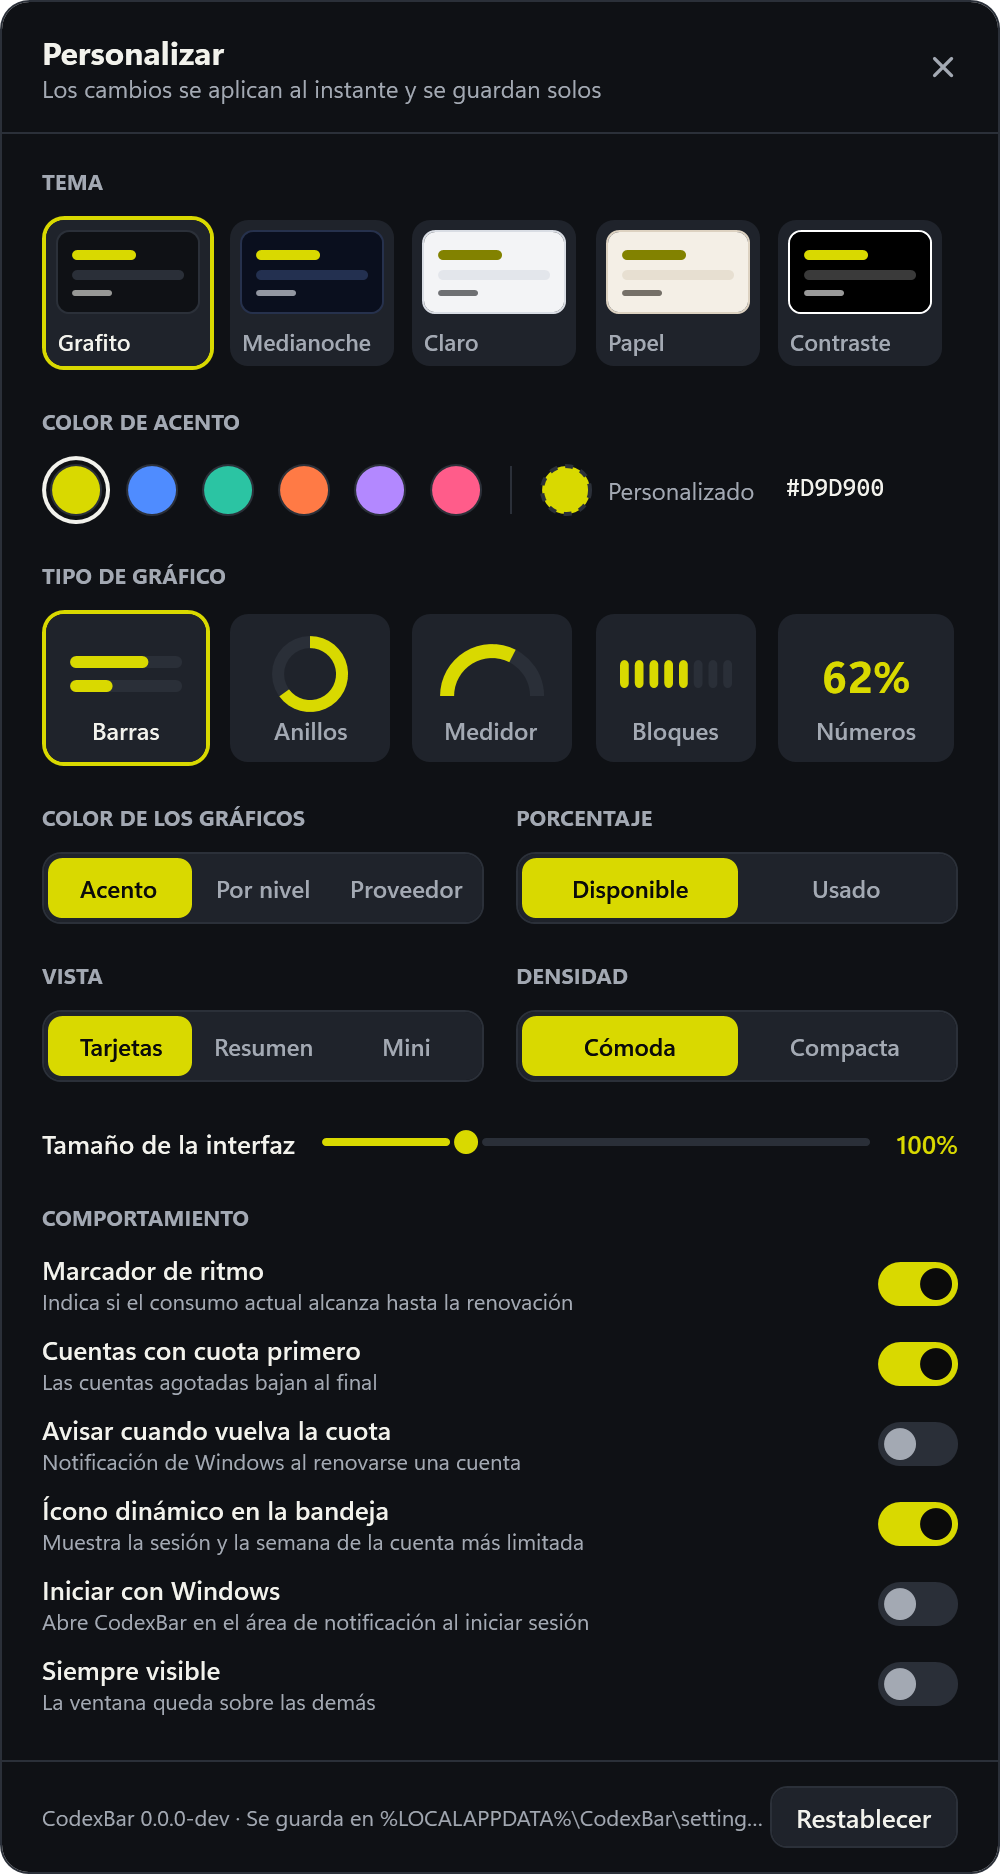
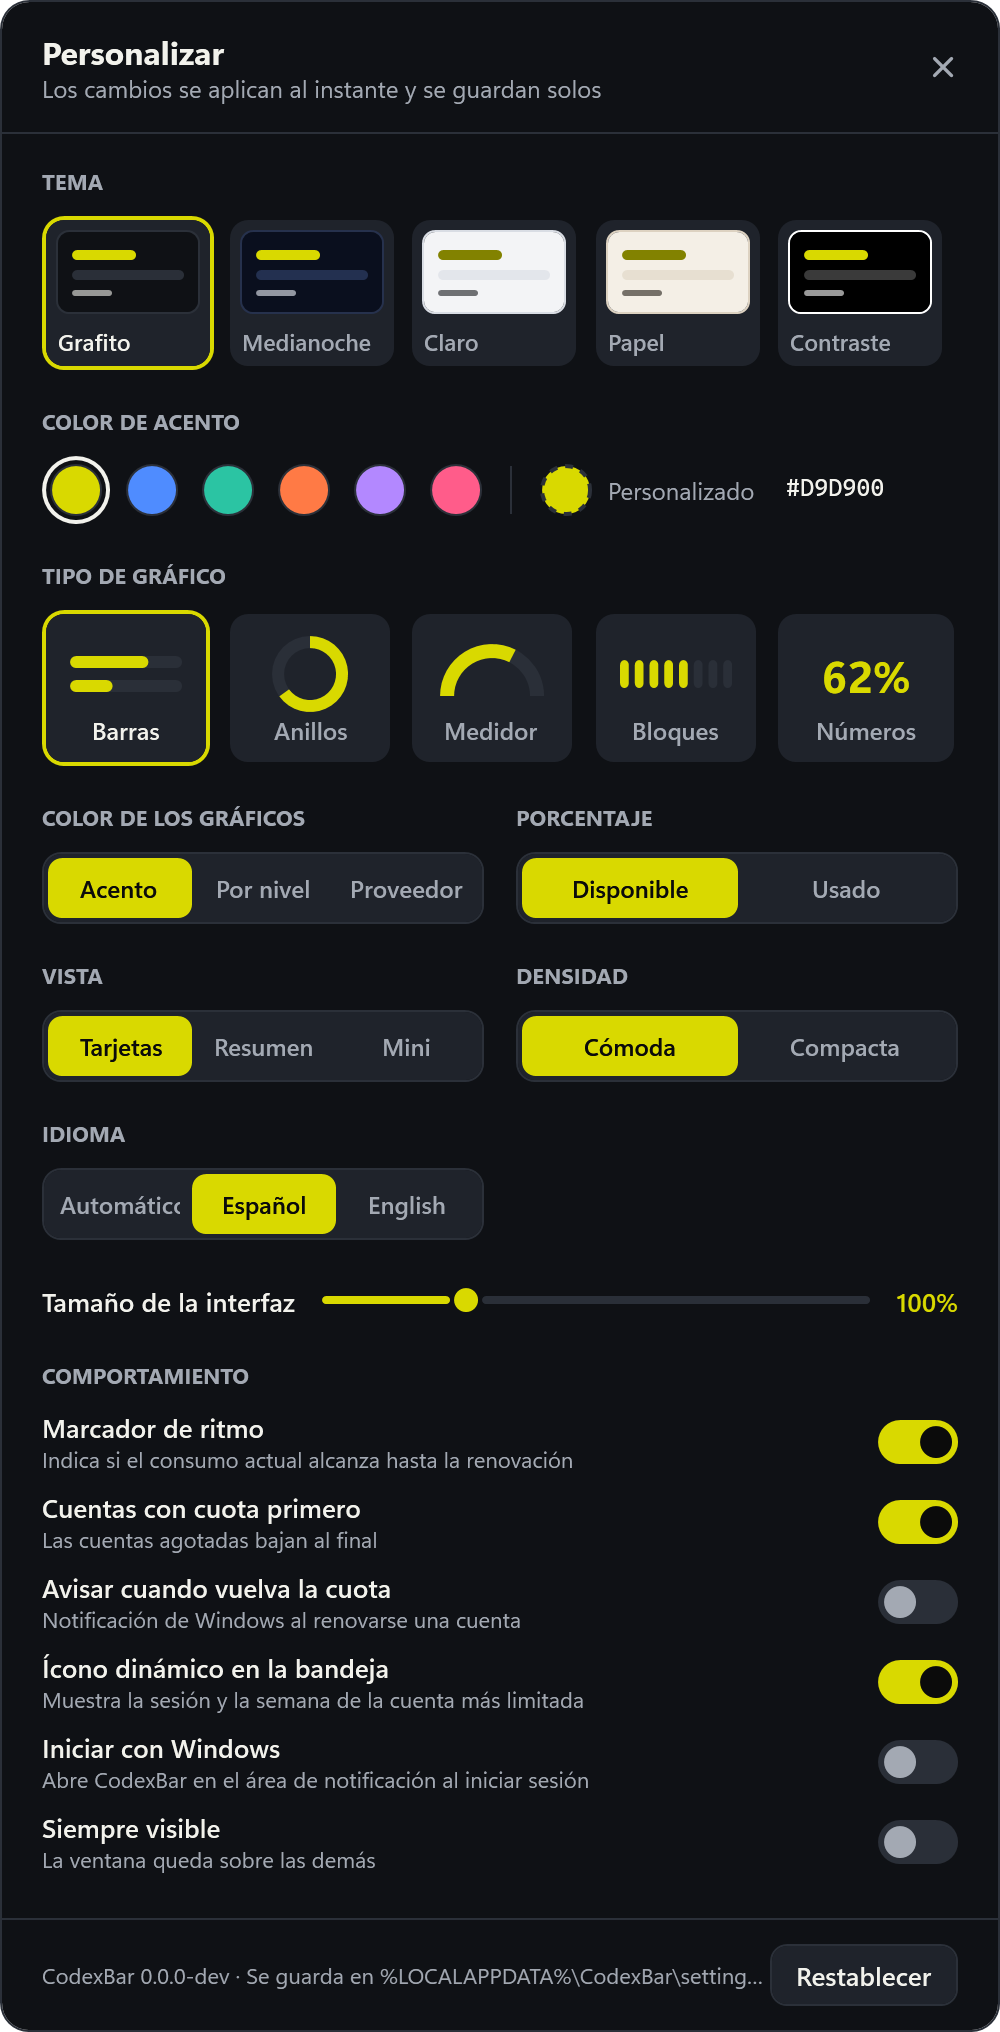
Document the English UI and use English screenshots

diff --git a/README.en.md b/README.en.md
@@ -24,17 +24,17 @@ window, when it resets, and which account still has quota. Works with several ac
 [![License: MIT](https://img.shields.io/badge/license-MIT-6e5aff?style=flat-square)](LICENSE)
 
 <p align="center">
-  <img src="docs/images/tarjetas.png" width="400" alt="Cards view with the Grafito theme: four accounts with session and weekly bars, pace marker, and one exhausted account">
+  <img src="docs/images/tarjetas-en.png" width="400" alt="Cards view with the Grafito theme: four accounts with session and weekly bars, pace marker, and one exhausted account">
   &nbsp;
-  <img src="docs/images/personalizar.png" width="400" alt="Customize window with themes, accent colors, chart types, view, density, size, and behavior options">
+  <img src="docs/images/personalizar-en.png" width="400" alt="Customize window with themes, accent colors, chart types, view, density, size, and behavior options">
 </p>
 <p align="center">
-  <img src="docs/images/resumen.png" width="620" alt="Summary view with the Medianoche theme and ring charts colored by quota level">
+  <img src="docs/images/resumen-en.png" width="620" alt="Summary view with the Medianoche theme and ring charts colored by quota level">
 </p>
 <p align="center">
-  <img src="docs/images/mini.png" width="380" alt="Mini view with the Claro theme and gauges colored per provider">
+  <img src="docs/images/mini-en.png" width="380" alt="Mini view with the Claro theme and gauges colored per provider">
 </p>
-<p align="center"><sub>Cards and Customize (Grafito, bars) · Summary (Medianoche, rings by level) · Mini (Claro, gauge per provider). Fictitious accounts. The app's interface is in Spanish.</sub></p>
+<p align="center"><sub>Cards and Customize (Grafito, bars) · Summary (Medianoche, rings by level) · Mini (Claro, gauge per provider). Fictitious accounts.</sub></p>
 
 ---
 
@@ -53,30 +53,31 @@ window, when it resets, and which account still has quota. Works with several ac
 - Each account is queried in its own short-lived process, so one failing account never affects the
   others.
 - Click an account name to rename it.
-- When an account loses its session, its card shows **Copiar login**, which copies the PowerShell
+- When an account loses its session, its card shows **Copy login**, which copies the PowerShell
   command to sign in to that specific profile. The command contains no credentials.
 - Expired Claude Code tokens are refreshed automatically with the profile's refresh token.
 
 ### Quota status
 - **Pace marker**: a line on the bar shows where you would be if you spread usage evenly until the
   reset, and a hint warns when the current rate would run out first (for example,
-  *"se agota en ~20 h a este ritmo"*: runs out in ~20 h at this rate).
+  *runs out in ~20 h at this rate*).
 - When **Session** or **Weekly** hits 0%, the card turns red and moves below accounts that still have
   quota.
-- An exhausted card shows **"Vuelve en …"** (back in …) in amber, turning green when the reset is 30
+- An exhausted card shows **"Back in …"** in amber, turning green when the reset is 30
   minutes away or less.
-- When quota returns, the card moves back up with **"Disponible otra vez"** (available again) and
+- When quota returns, the card moves back up with **"Available again"** and
   flashes green until you click it. Optionally, Windows shows a notification.
 - The window footer shows which account gets its quota back next.
 
 ### Customization
-- **Themes**: Grafito, Medianoche, Claro, Papel, and high contrast.
+- **Themes**: Graphite, Midnight, Light, Paper, and high contrast.
 - **Accent color**: six presets, any color from the picker, or a `#RRGGBB` code. If the chosen color
   is hard to read on the theme, it is adjusted automatically to keep enough contrast.
 - **Chart type**: bars, rings, gauge, blocks, or large numbers.
 - **Chart colors**: accent, by quota level (green, amber, red), or a custom color per provider.
 - **Available** or **used** percentage, comfortable or compact density, and interface **scale** from
   80% to 160%, useful on 4K monitors.
+- **Language**: Spanish or English, or automatic (follows the Windows display language).
 - Everything applies instantly and is saved automatically.
 
 ### Window and tray
@@ -84,8 +85,8 @@ window, when it resets, and which account still has quota. Works with several ac
   compact grid with each account's session.
 - **Dynamic notification-area icon**: shows the session and weekly quota of the most limited account,
   with a red dot when one is exhausted or a green dot when one has just recovered.
-- Large **Actualizar** (refresh) button at the bottom of the window, in every view.
-- Tray menu with *Abrir*, *Actualizar*, *Personalizar…*, and *Salir* (open, refresh, customize, exit).
+- Large **Refresh** button at the bottom of the window, in every view.
+- Tray menu with *Open*, *Refresh*, *Customize…*, and *Exit*.
 - **Always on top**, minimize to the taskbar, and hide to the tray without closing the app.
 - Drag the window by its header or any card; it remembers its position.
 - Data refreshes every 5 minutes; the countdown advances every minute without querying providers again.
@@ -109,9 +110,9 @@ window, when it resets, and which account still has quota. Works with several ac
   missing, it downloads and installs it from Microsoft; only then does Windows ask for administrator
   permission.
 - **Automatic updates**: CodexBar checks GitHub Releases at startup and every 6 hours. When a new
-  version is available, it downloads it in the background and shows **Reiniciar** (restart) in the
+  version is available, it downloads it in the background and shows **Restart** in the
   window and the tray menu. If you don't restart, it installs the next time you open the app.
-- To start with Windows, turn on **Iniciar con Windows** in **Personalizar**.
+- To start with Windows, turn on **Start with Windows** in **Customize**.
 - To uninstall, use *Settings → Apps → Installed apps → CodexBar*. Your preferences in
   `%LOCALAPPDATA%\CodexBar` and your Codex and Claude credentials are left untouched.
 

diff --git a/AGENTS.md b/AGENTS.md
@@ -34,7 +34,8 @@ keeps only the Windows port: a Foundation-only Swift usage engine and a native W
   `System.Windows.*` types qualified where WinForms names collide).
 - XAML: theme-dependent brushes use `DynamicResource`; colors come from `AppearancePalette`.
 - Swift: SwiftFormat/SwiftLint configs are in the repo root; 4-space indent, 120-char lines.
-- User-facing strings are Spanish.
+- User-facing strings live in `Localization/Loc.cs` with Spanish and English side by side; XAML uses
+  `{local:Tr Key}` and code uses `Loc.T`/`Loc.F`. The tests fail if a key is missing a translation.
 
 ## Security
 - Never read, copy, log, or persist provider credentials in the tray. Only the engine touches the

diff --git a/CHANGELOG.md b/CHANGELOG.md
@@ -1,5 +1,11 @@
 # Changelog
 
+## 1.1.0
+
+- La app está disponible en inglés. Nueva opción **Idioma** en Personalizar: Automático (según el
+  idioma de Windows), Español o English. Cambia al instante, sin reiniciar.
+- Capturas del README en ambos idiomas.
+
 ## 1.0.2
 
 - Bordes nítidos: se quitó la sombra que hacía renderizar la ventana como imagen y se alinean las

diff --git a/README.md b/README.md
@@ -80,6 +80,7 @@ cuentas por proveedor.
   elegible por proveedor.
 - Porcentaje **disponible** o **usado**, densidad cómoda o compacta y **escala** del 80 % al 160 %,
   útil en monitores 4K.
+- **Idioma**: español o inglés, o automático (según el idioma de Windows).
 - Todo se aplica al instante y se guarda solo.
 
 ### Ventana y bandeja
